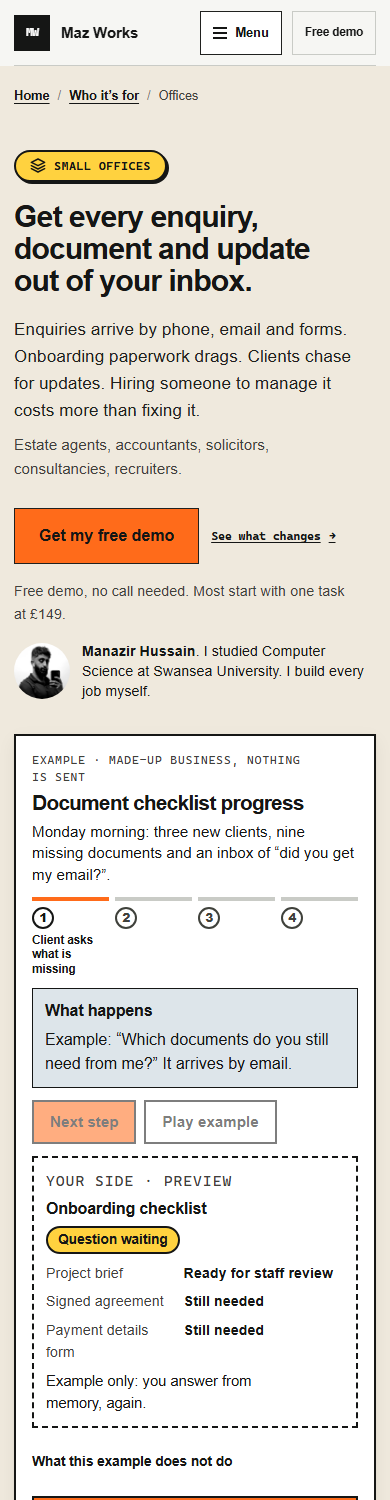
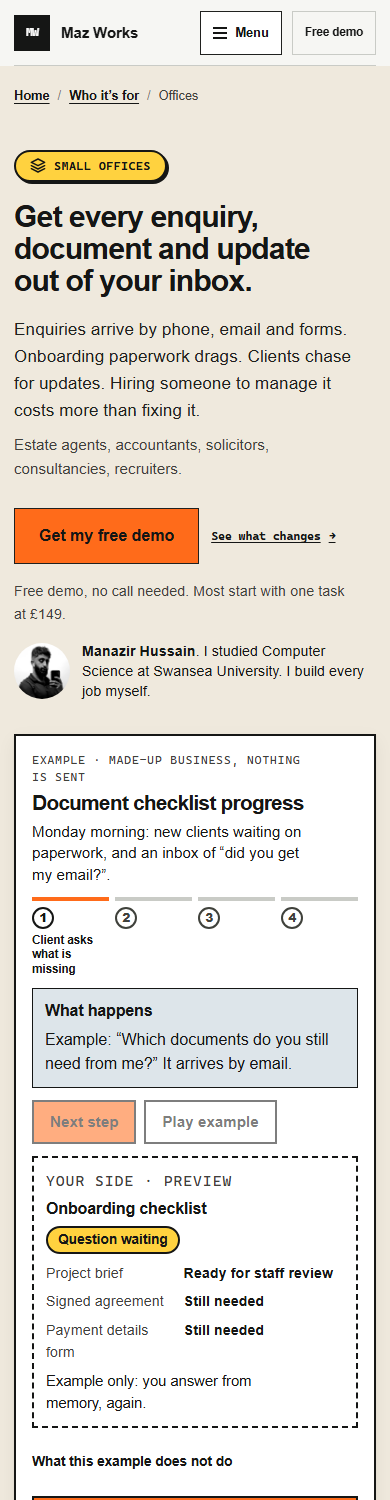
Fix homepage regressions (form options render after hydration), example as region not section, drop dead hero-phone copy, after screenshots, final status

Changed region(s): [[0.0923, 0.552, 0.8308, 0.5827], [0.8615, 0.552, 0.8923, 0.5827]]

diff --git a/app/for/trade-extras.ts b/app/for/trade-extras.ts
@@ -1,10 +1,9 @@
 /**
  * Per-page extras for the /for pages: what changes (three before/after rows),
- * the wording shown on the hero phone, and which receptionist preset to demo.
+ * and which receptionist preset to demo.
  * These are examples of what changes, never client results or statistics.
  * Prices are never typed here (they come from app/offers.ts).
  */
-import type { HeroDemoCopy } from '../hero-demo';
 import type { ChangeRow } from '../before-after';
 import { getMenuJob } from '../offers';
 
@@ -12,12 +11,9 @@ const row = (job: string, icon: string, before: string, after: string): ChangeRo
 
 export type TradeExtras = {
   changes: ChangeRow[];
-  demo: HeroDemoCopy;
   /** Receptionist demo: preset id in app/receptionist-demo/presets.mjs, the name it answers as, and "Talk to it as ___". */
   receptionist?: { preset: string; business: string; as: string };
 };
-
-const BOOKED = 'Tuesday 10:30 · added to your diary';
 
 export const TRADE_EXTRAS: Record<string, TradeExtras> = {
   'heating-and-plumbing': {
@@ -26,7 +22,6 @@ export const TRADE_EXTRAS: Record<string, TradeExtras> = {
       row('quote-follow-up', 'mail', 'Quotes you sent last week have gone quiet.', 'A friendly reminder goes out after 3 and 7 days, and stops when they reply.'),
       row('reviews', 'star', 'Happy customers never get asked for a review.', 'A review request follows every finished job.'),
     ],
-    demo: { text: 'Sorry we missed you, I’m on a job. Book a visit or ask for a quote here: ', link: 'yourplumbing.co.uk/book', booked: 'Boiler visit booked', bookedDetail: BOOKED },
     receptionist: { preset: 'plumbing', business: 'Your plumbing firm', as: 'a plumber' },
   },
   roofers: {
@@ -35,7 +30,6 @@ export const TRADE_EXTRAS: Record<string, TradeExtras> = {
       row('quote-follow-up', 'mail', 'Quotes sent after the last storm have gone quiet.', 'A friendly reminder goes out after 3 and 7 days, and stops when they reply.'),
       row('reviews', 'star', 'Finished roofs never turn into Google reviews.', 'A review request follows every finished job.'),
     ],
-    demo: { text: 'Sorry we missed you, I’m up on a roof. Send photos or ask for a quote here: ', link: 'yourroofing.co.uk/quote', booked: 'Quote request in', bookedDetail: 'Photos received · added to your list', action: 'Send' },
     receptionist: { preset: 'roofer', business: 'Your roofing firm', as: 'a roofer' },
   },
   builders: {
@@ -44,7 +38,6 @@ export const TRADE_EXTRAS: Record<string, TradeExtras> = {
       row('quote-follow-up', 'mail', 'Big quotes go unchased while you’re on site.', 'Quotes are chased after 3 and 7 days, and stop when they reply.'),
       row('payment-reminders', 'cart', 'Stage payments slip and you end up chasing.', 'A nudge goes before and after each stage is due, with the pay link.'),
     ],
-    demo: { text: 'Thanks for calling, we’re on site. Tell us about your project and book a visit here: ', link: 'yourbuilders.co.uk/visit', booked: 'Site visit requested', bookedDetail: 'Project details received · added to your list', action: 'Send' },
     receptionist: { preset: 'builder', business: 'Your building firm', as: 'a builder' },
   },
   electricians: {
@@ -53,7 +46,6 @@ export const TRADE_EXTRAS: Record<string, TradeExtras> = {
       row('job-updates', 'chat', 'Customers ring to ask when you’re coming.', '“Booked”, “on the way” and “done” texts go out for you.'),
       row('reviews', 'star', 'Happy customers never get asked for a review.', 'A review request follows every finished job.'),
     ],
-    demo: { text: 'Sorry we missed you, I’m on a job. Book a visit or tell me what you need here: ', link: 'yourelectrics.co.uk/book', booked: 'Visit booked', bookedDetail: BOOKED },
     receptionist: { preset: 'electrician', business: 'Your electrical firm', as: 'an electrician' },
   },
   'salons-and-beauty': {
@@ -62,7 +54,6 @@ export const TRADE_EXTRAS: Record<string, TradeExtras> = {
       row('reminders', 'calendar', 'Clients forget, and the chair sits empty.', 'A reminder goes the day before; clients confirm or move by text.'),
       row('rebooking', 'repeat', 'Regulars drift away and nobody nudges them back.', 'Past clients get a nudge when they’re due back.'),
     ],
-    demo: { text: 'Sorry we missed you, we’re with a client. Book your appointment here: ', link: 'yoursalon.co.uk/book', booked: 'Cut and colour booked', bookedDetail: BOOKED },
     receptionist: { preset: 'salon', business: 'Your salon', as: 'a salon' },
   },
   'dog-groomers': {
@@ -71,7 +62,6 @@ export const TRADE_EXTRAS: Record<string, TradeExtras> = {
       row('online-booking', 'paw', 'Bookings wait until you can stop and reply.', 'Owners book a slot themselves, day or night.'),
       row('reminders', 'calendar', 'A forgotten appointment leaves a gap in your day.', 'A reminder goes out the day before.'),
     ],
-    demo: { text: 'Sorry we missed you, we’re mid-groom. Book a slot here: ', link: 'yourgrooming.co.uk/book', booked: 'Groom booked', bookedDetail: BOOKED },
   },
   garages: {
     changes: [
@@ -79,7 +69,6 @@ export const TRADE_EXTRAS: Record<string, TradeExtras> = {
       row('one-list', 'mail', 'Quote and MOT requests arrive by phone, email and web form.', 'Each one is logged in a single list with an instant reply.'),
       row('quote-follow-up', 'chat', 'Quotes go quiet once the car is on the ramp.', 'A friendly reminder goes out if the customer goes quiet.'),
     ],
-    demo: { text: 'Sorry we missed you, we’re under a car. Book your MOT here: ', link: 'yourgarage.co.uk/mot', booked: 'MOT booked', bookedDetail: 'Thursday 9:00 · added to your diary' },
     receptionist: { preset: 'garage', business: 'Your garage', as: 'a garage' },
   },
   'cafes-and-food': {
@@ -88,7 +77,6 @@ export const TRADE_EXTRAS: Record<string, TradeExtras> = {
       row('online-booking', 'calendar', 'Table bookings come by phone while you’re serving.', 'Customers book a table themselves, day or night.'),
       row('reviews', 'star', 'Happy regulars never get asked for a review.', 'Customers are asked for a Google review after each visit.'),
     ],
-    demo: { text: 'Sorry we missed you, we’re serving. Book a table here: ', link: 'yourcafe.co.uk/book', booked: 'Table booked', bookedDetail: 'Saturday 12:30 · added to your diary' },
   },
   'clinics-and-therapists': {
     changes: [
@@ -96,7 +84,6 @@ export const TRADE_EXTRAS: Record<string, TradeExtras> = {
       row('online-booking', 'calendar', 'Booking means ringing and hoping someone answers.', 'Clients book themselves, day or night.'),
       row('reminders', 'chat', 'A missed appointment leaves a gap you can’t refill.', 'A reminder goes out the day before; clients confirm or move by text.'),
     ],
-    demo: { text: 'Sorry we missed your call, we’re with a patient. Book an appointment here: ', link: 'yourclinic.co.uk/book', booked: 'Appointment booked', bookedDetail: BOOKED },
     receptionist: { preset: 'clinic', business: 'Your clinic', as: 'a clinic' },
   },
   architects: {
@@ -105,26 +92,21 @@ export const TRADE_EXTRAS: Record<string, TradeExtras> = {
       row('quote-follow-up', 'chat', 'Proposals go quiet after you send them.', 'A polite follow-up goes out, in your words.'),
       row('milestones', 'pin', 'Clients ask where their project is up to.', 'Clients get an update at each stage, automatically.'),
     ],
-    demo: { text: 'Thanks for calling, we’re in a meeting. Tell us about your project here: ', link: 'yourpractice.co.uk/enquiry', booked: 'Project enquiry', bookedDetail: 'Brief received · added to your list', action: 'Send' },
   },
   // Customer-type pages derive their before/after rows from their own pains; only the phone and receptionist are set here.
   trades: {
     changes: [],
-    demo: { text: 'Sorry we missed you, I’m on a job. Get a quote or book here: ', link: 'yourbusiness.co.uk/quote', booked: 'Quote request in', bookedDetail: BOOKED, action: 'Send' },
     receptionist: { preset: 'builder', business: 'Your trade business', as: 'a tradesperson' },
   },
   appointments: {
     changes: [],
-    demo: { text: 'Sorry we missed you, we’re with a client. Book your appointment here: ', link: 'yourbusiness.co.uk/book', booked: 'Appointment booked', bookedDetail: BOOKED },
     receptionist: { preset: 'salon', business: 'Your salon', as: 'a salon' },
   },
   creators: {
     changes: [],
-    demo: { text: 'Thanks for calling! Book a call or grab the guide here: ', link: 'yourname.co.uk/book', booked: 'Call booked', bookedDetail: BOOKED },
   },
   offices: {
     changes: [],
-    demo: { text: 'Sorry we missed you, we’re with a client. Tell us what you need here: ', link: 'yourfirm.co.uk/enquiry', booked: 'New enquiry', bookedDetail: 'Added to your one list · reply sent', action: 'Send' },
   },
 };
 

diff --git a/app/free-plan/leak-check-form.tsx b/app/free-plan/leak-check-form.tsx
@@ -316,25 +316,25 @@ export function LeakCheckForm() {
         </div>
       ) : null}
       <div className="mw-form-part" data-part="1">
-        <details>
-          <summary>Change industry or package</summary>
+        {hydrated ? <details>
+          <summary>Change industry or package</summary>{/* Options render after hydration: they are choices for JavaScript visitors and must not bloat every page that embeds the form. */}
           <label>
           <span>Industry <small>(optional)</small></span>
           <select name="industry_choice" value={context.trade} disabled={submitState === 'sending'} onChange={event => { if (event.target.value !== context.trade) setPicked([]); updateContext(changeTrade(context, event.target.value), event.target.value !== context.trade); setErrors(current => ({ ...current, problem: '' })); }}>
             <option value="">Choose your industry, or leave open</option>
-            {TRADE_CHOICES.map(item => <option key={item.id} value={item.id}>{item.label}</option>)}
+            {hydrated ? <>{TRADE_CHOICES.map(item => <option key={item.id} value={item.id}>{item.label}</option>)}
             <option value="creator">Creator</option>
-            <option value="other">Something else</option>
+            <option value="other">Something else</option></> : null}
           </select>
         </label>
         <label>
           <span>Package preference <small>(optional, not an order)</small></span>
           <select name="package_choice" value={pkg} disabled={submitState === 'sending'} onChange={event => updateContext({ ...context, package: event.target.value })}>
             <option value="">Not chosen — help me decide</option>
-            {KNOWN_PACKAGES.map(name => <option key={name} value={name}>{name}</option>)}
+            {hydrated ? KNOWN_PACKAGES.map(name => <option key={name} value={name}>{name}</option>) : null}
           </select>
         </label>
-        </details>
+        </details> : null}
         <fieldset className="mw-quick-picks">
           <legend>What’s costing you customers or time? <small>Tap any that fit</small></legend>
           <div>
@@ -366,12 +366,11 @@ export function LeakCheckForm() {
         <p id="leak-check-err-problem" className="mw-field-error" role="alert">{errors.problem}</p>
 
         <details className="mw-more">
-          <summary>Add your business name, website or tools <small>(optional)</small></summary>
-        <label>
-          <span>Tools you already use <small>(optional)</small></span>
-          <input name="existing_tools" maxLength={500} placeholder="For example: Fresha, GarageHive, a calendar or a spreadsheet" disabled={submitState === 'sending'} />
-          <small>So I can check what they already do before suggesting anything new.</small>
-        </label>
+          <summary>Details</summary>
+        {hydrated ? <label>
+          <span>Tools you use <small>(optional)</small></span>
+          <input name="existing_tools" maxLength={500} placeholder="Fresha, GarageHive, a calendar? I will check what they do first." disabled={submitState === 'sending'} />
+        </label> : null}
 
         <label>
           <span>Business name or website <small>(optional)</small></span>

diff --git a/app/for/industry-proof.tsx b/app/for/industry-proof.tsx
@@ -41,7 +41,7 @@ export function IndustryProof({ proof }: { proof: IndustryProof }) {
     setPlaying(true);
   }
   return (
-    <section className="ip-proof" id="industry-proof" data-testid="industry-proof" data-industry={proof.slug} aria-labelledby="ip-title">
+    <div role="region" className="ip-proof" id="industry-proof" data-testid="industry-proof" data-industry={proof.slug} aria-labelledby="ip-title">
       <header className="ip-head"><p className="ip-label">Example · made-up business, nothing is sent</p><h2 id="ip-title">{proof.title}</h2><p className="ip-moment">{proof.moment}</p></header>
       <ol className="ip-progress" aria-label="Example steps">{proof.steps.map((s, index) => <li key={s.title} aria-current={index === state.step ? 'step' : undefined}><span>{index + 1}</span><em>{s.title}</em></li>)}</ol>
       <div className="ip-customer">
@@ -59,8 +59,8 @@ export function IndustryProof({ proof }: { proof: IndustryProof }) {
       </div>
       <aside className="ip-owner" aria-labelledby="ip-owner-title"><p className="ip-label">Your side · {state.complete ? 'what lands with you' : 'preview'}</p><h3 id="ip-owner-title">{proof.artifact}</h3><strong>{summary.status}</strong><dl>{summary.fields.map(f => <div key={f.label}><dt>{f.label}</dt><dd>{f.value}</dd></div>)}</dl><p>{summary.owner}</p>{state.complete ? <p className="ip-decision"><strong>Your call.</strong> {proof.decision}</p> : null}</aside>
       <details className="ip-boundary"><summary>What this example does not do</summary><p>{proof.scope} {proof.boundary}</p><p>Real setup depends on your existing tools and permissions. Any app subscriptions or message costs are paid to the provider and agreed first.</p></details>
-      <noscript><p>Read the example without JavaScript:</p><ol>{proof.steps.map(s => <li key={s.title}><strong>{s.title}: </strong>{s.customer} {s.owner}</li>)}</ol><p>{proof.boundary}</p></noscript>
+      <noscript><p>Turn on JavaScript to step through this example. {proof.boundary}</p></noscript>
       <CampaignLink className="ip-cta" href={href}>{MAIN_CTA} <span aria-hidden="true">→</span></CampaignLink>
-    </section>
+    </div>
   );
 }

diff --git a/docs/maz-works/trade-sprint/STATUS.md b/docs/maz-works/trade-sprint/STATUS.md
@@ -1,6 +1,10 @@
 # Trade sprint status
 
-**WIP handover (usage limit hit).** Done: 14 hand-written industry examples wired into every /for hero (`IndustryProof`, styled); own voice block per page; all CTAs carry industry, origin page and job; enquiry API sanitises and limits context; form step 1 slimmer; new `tests/trade-journey.test.mjs`. Browser-checked: all 15 pages at 320 and 390 (no overflow, 44px targets); roofers to form pre-fill verified; 4 pages (hub, roofers, salons, offices) looked at by eye. Tests: 231 of 233 pass; the 2 red are homepage tests broken by main (#144 price-list), not this branch.
+**Final (11 Oct).** Everything planned is done and `npm run verify` passes (typecheck, build, 233 of 233 tests, smoke). All 15 pages were looked at in a real browser at 390, checked at 320, and roofers at desktop width; the roofers page to form pre-fill was run end to end. Eight AFTER screenshots are in `docs/evidence/trade-sprint/`.
+
+Correction: an earlier note below blamed main for two red homepage tests. That was wrong. The cause was this branch: Codex's form listed every package and industry as static option text, and the form is embedded on the homepage, adding words and "Team training". Options now render after hydration only. Type pages also needed a higher word budget (800 to 1000) because the hero phone became a full step-through example; the reason is in the test comment.
+
+Earlier handover note (superseded). Done: 14 hand-written industry examples wired into every /for hero (`IndustryProof`, styled); own voice block per page; all CTAs carry industry, origin page and job; enquiry API sanitises and limits context; form step 1 slimmer; new `tests/trade-journey.test.mjs`. Browser-checked: all 15 pages at 320 and 390 (no overflow, 44px targets); roofers to form pre-fill verified; 4 pages (hub, roofers, salons, offices) looked at by eye. Tests: 231 of 233 pass; the 2 red are homepage tests broken by main (#144 price-list), not this branch.
 NOT done: 11 pages not eyeballed; only 4 AFTER screenshots committed; desktop shot not viewed; `npm run smoke` not run; dead hero-phone copy left in `trade-extras.ts`.
 
 Takeover of Codex's unfinished sprint (11 Oct 2026). Table 1 is what was found at commit `6880b62`, checked by reading the files and running the tests. Table 2 (bottom) is what this branch finished.
